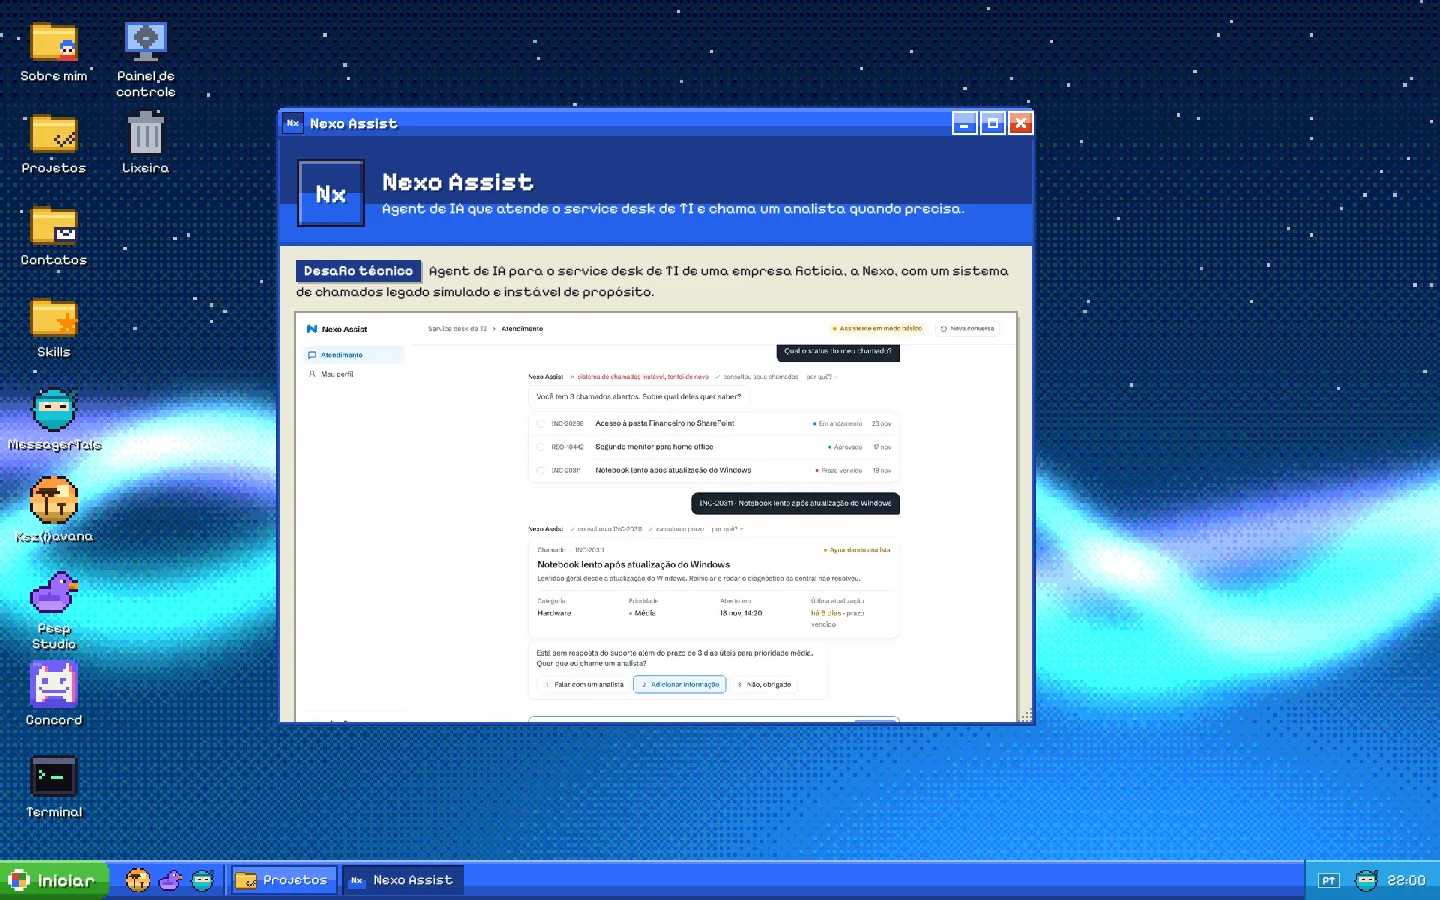
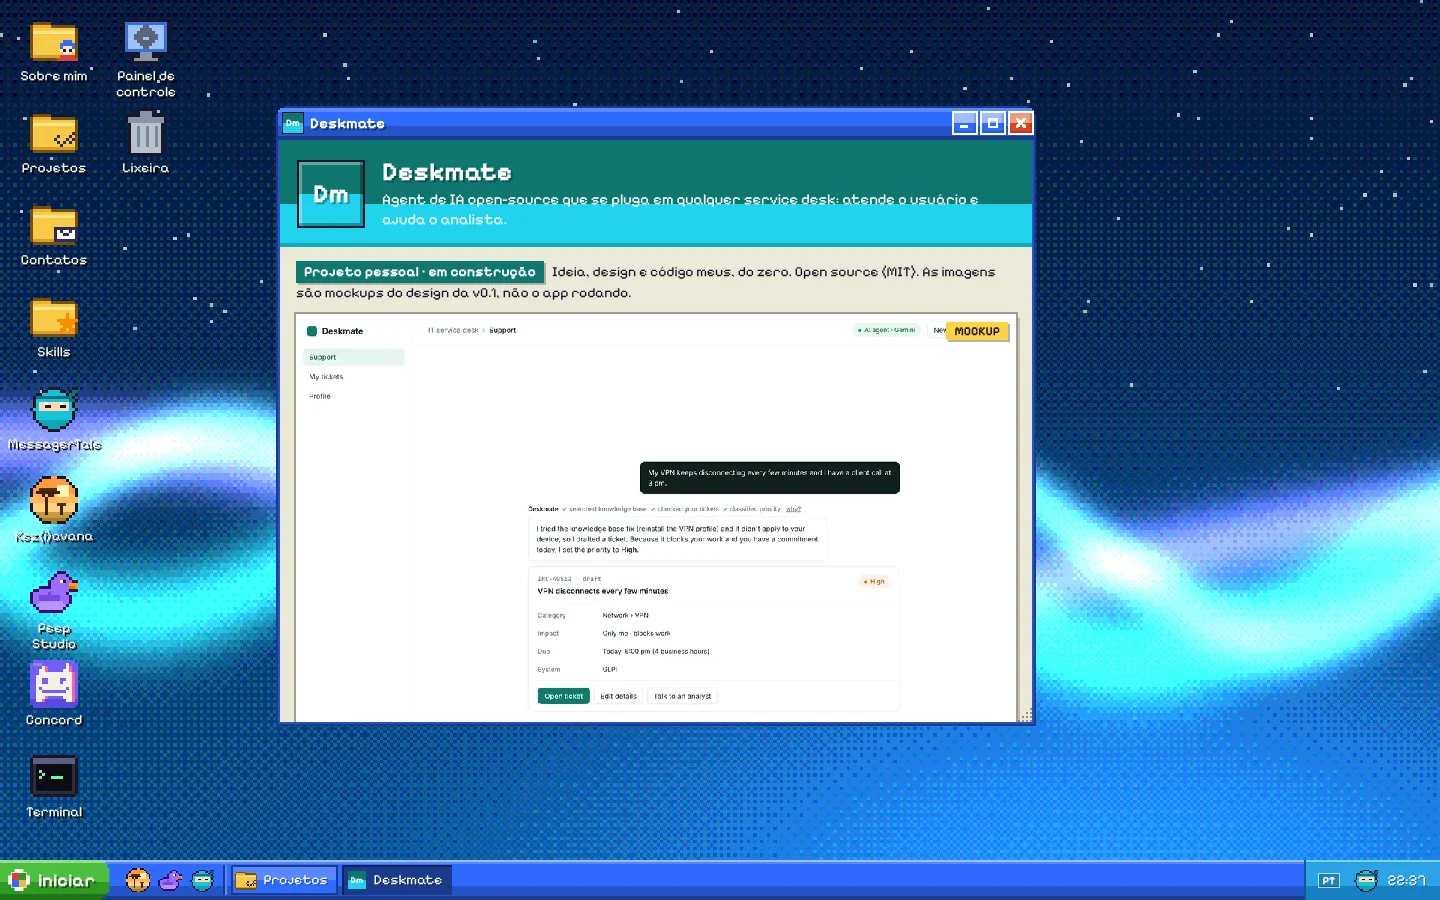
Remove o projeto antigo; Deskmate como ideia e criação próprias
Claude-Session: https://claude.ai/code/session_01LB9nuwvuu4kV9NoEkgtS1i

diff --git a/js/i18n.js b/js/i18n.js
@@ -59,15 +59,6 @@
       aprendizados: ["Writing a Go API without a framework, with hand-made rate limiting and CORS", "Deploying the static site on Cloudflare and the API in Docker, each on its own free tier", "Translating a whole site into three languages without duplicating pages"],
       legendas: ["Home with the interactive mirror and Miro", "Navy dark theme", "The five mirror shapes", "Careers, with 17 openings", "On a phone"],
     },
-    nexo: {
-      tipo: "First version of Deskmate", contexto: "My own project, built from scratch with my own time and resources, for a fictional company (Nexo) with a simulated legacy ticket system that is unstable on purpose. It became the foundation of Deskmate, which I'm rewriting as open source.",
-      resumo: "AI agent that handles the IT service desk and calls an analyst when needed.",
-      problema: "Many IT tickets are repeated questions (\"what's the status of my ticket?\", \"the VPN won't connect\"). Employees wait, and analysts spend time on what a lookup would solve. The idea was to automate that without letting the model make up deadlines or priorities, or touch someone else's ticket.",
-      descricao: "The employee describes the problem in a chat. The agent checks their tickets, searches the help center, drafts tickets for them to confirm and hands off to an analyst when needed. The analyst follows everything in a console, with the reason behind each agent decision. The project's principle: the LLM understands the conversation; the code decides the rules.",
-      destaques: ["Mastra agent with 7 tools; deadlines, priority and duplicates live in tested code", "Gemini as the main model, Groq as plan B and a basic mode without AI when both fail", "A \"why?\" link on every answer and an analyst console with the decision log", "Evals against the real AI: 44/44 on Gemini; unit, integration and Playwright tests"],
-      aprendizados: ["Letting the LLM interpret and the code decide: business rules don't depend on the model", "Measuring an agent with behavior evals (which tools it called), not text", "Idempotency and retry with backoff against a legacy system that goes down"],
-      legendas: ["Overdue ticket: the agent offers to call an analyst", "Handoff to Tier 2 support", "Analyst console with the decision log", "Sign in"],
-    },
     doce: {
       tipo: "Client", contexto: "Site built for Ana Beatriz, a baker, and deployed on Vercel.",
       resumo: "Bakery showcase where the order ends up ready on WhatsApp.",
@@ -78,9 +69,9 @@
       legendas: ["Home page", "Menu with category filter", "Building a cake order", "On a phone"],
     },
     deskmate: {
-      tipo: "Personal project · in progress", contexto: "Open source (MIT). The images are design mockups of v0.1, not the running app.",
+      tipo: "Personal project · in progress", contexto: "My idea, design and code, from scratch. Open source (MIT). The images are design mockups of v0.1, not the running app.",
       resumo: "Open-source AI agent that plugs into any service desk: it helps the end user and the analyst.",
-      problema: "Nexo Assist, the first version, served one specific service desk. Deskmate takes what worked there and turns it into an open-source product for any company: self-hosted, free to run and pluggable into the service desk it already uses (GLPI, Jira, Zammad or an in-house system).",
+      problema: "Many IT tickets are repeated questions (\"what's the status of my ticket?\", \"the VPN won't connect\"). Employees wait and analysts spend time on what a lookup would solve. Deskmate automates that for any company: self-hosted, free to run and pluggable into the service desk it already uses (GLPI, Jira, Zammad or an in-house system).",
       descricao: "A self-hostable, open-source (MIT) AI agent for IT service desks. The employee describes the problem in a chat; the agent sets the priority, looks for similar tickets and opens or follows up on the ticket. The analyst sees everything in a dashboard. The agent isn't tied to one system: it talks to an ITicketSystem interface, and each service desk gets an adapter. Work in progress, with the domain written first and covered by tests.",
       destaques: ["ASP.NET Core (.NET 10) back end rewritten from scratch, with domain rules tested in xUnit", "One adapter per service desk behind the ITicketSystem interface; GLPI comes first", "Swappable AI providers (Gemini, Groq and Ollama) behind IChatModel, plus a basic mode without AI", "Its own agent loop instead of a framework, so there is no hidden behavior"],
       aprendizados: ["Designing for contributors: CI, Conventional Commits and community files from day one", "Dependency inversion in practice: swap Gemini for Ollama or GLPI for Jira without touching the agent", "Planning a small v0.1 and saying no (YAGNI) to queues, Redis and microservices"],

diff --git a/js/data.js b/js/data.js
@@ -103,38 +103,6 @@ window.PROJETOS = [
     demo: "https://mirav.aluisioalves6.workers.dev/",
   },
   {
-    id: "nexo",
-    nome: "Nexo Assist",
-    curto: "Nexo Assist",
-    cor: ["#1E3A8A", "#2563EB"],
-    sigla: "Nx",
-    contexto: { tipo: "Primeira versão do Deskmate", texto: "Projeto meu, feito do zero com o meu tempo e os meus recursos, para uma empresa fictícia (a Nexo) com um sistema de chamados legado simulado e instável de propósito. Ele virou a base do Deskmate, que estou reescrevendo como open source." },
-    resumo: "Agent de IA que atende o service desk de TI e chama um analista quando precisa.",
-    problema: "Boa parte dos chamados de TI são perguntas repetidas (\"qual o status do meu chamado?\", \"a VPN não conecta\"). O funcionário espera, e o analista perde tempo com o que uma consulta resolveria. A ideia era automatizar isso sem deixar o modelo inventar prazo, prioridade ou mexer em chamado de outra pessoa.",
-    descricao:
-      "O funcionário descreve o problema num chat. O agent consulta os chamados dele, busca na central de ajuda, prepara rascunhos de chamado para ele confirmar e transfere para um analista quando precisa. O analista acompanha tudo num console, com o motivo de cada decisão do agent. Princípio do projeto: o LLM entende a conversa; o código decide as regras.",
-    destaques: [
-      "Agent no Mastra com 7 ferramentas; prazo, prioridade e duplicidade ficam em código testado",
-      "Gemini como principal, Groq como plano B e um modo básico sem IA quando os dois caem",
-      "Botão \"por quê?\" em cada resposta e console do analista com o registro de decisões",
-      "Evals contra a IA real: 44/44 no Gemini; testes unitários, de integração e Playwright",
-    ],
-    aprendizados: [
-      "Deixar o LLM interpretar e o código decidir: as regras de negócio não dependem do modelo",
-      "Medir um agent com evals de comportamento (ferramentas chamadas), não de texto",
-      "Idempotência e retry com backoff contra um sistema legado que cai",
-    ],
-    imagens: [
-      { src: "img/projetos/nexo-chat.webp", legenda: "Chamado com prazo vencido: o agent oferece chamar um analista" },
-      { src: "img/projetos/nexo-chat-handoff.webp", legenda: "Transferência para o Suporte N2" },
-      { src: "img/projetos/nexo-decisoes.webp", legenda: "Console do analista com o registro de decisões" },
-      { src: "img/projetos/nexo-login.webp", legenda: "Login" },
-    ],
-    stack: ["Next.js 16", "TypeScript", "Mastra", "Gemini", "Groq", "Hono", "SQLite (libSQL)", "zod", "Vitest", "Playwright"],
-    repo: "https://github.com/aluisiodev/nexo-assist",
-    demo: "",
-  },
-  {
     id: "doce",
     nome: "Doce & Afeto",
     curto: "Doce & Afeto",
@@ -172,9 +140,9 @@ window.PROJETOS = [
     curto: "Deskmate",
     cor: ["#0F766E", "#22D3EE"],
     sigla: "Dm",
-    contexto: { tipo: "Projeto pessoal · em construção", texto: "Open source (MIT). As imagens são mockups do design da v0.1, não o app rodando." },
+    contexto: { tipo: "Projeto pessoal · em construção", texto: "Ideia, design e código meus, do zero. Open source (MIT). As imagens são mockups do design da v0.1, não o app rodando." },
     resumo: "Agent de IA open-source que se pluga em qualquer service desk: atende o usuário e ajuda o analista.",
-    problema: "O Nexo Assist, a primeira versão, atendia um service desk específico. O Deskmate pega o que funcionou nele e vira um produto open source para qualquer empresa: auto-hospedado, sem custo para rodar e plugável no service desk que ela já usa (GLPI, Jira, Zammad ou um sistema próprio).",
+    problema: "Boa parte dos chamados de TI são perguntas repetidas (\"qual o status do meu chamado?\", \"a VPN não conecta\"). O funcionário espera e o analista perde tempo com o que uma consulta resolveria. O Deskmate automatiza isso para qualquer empresa: auto-hospedado, sem custo para rodar e plugável no service desk que ela já usa (GLPI, Jira, Zammad ou um sistema próprio).",
     descricao:
       "Um agent de IA auto-hospedável e de código aberto (MIT) para service desks de TI. O funcionário descreve o problema num chat; o agent classifica a prioridade, procura chamados parecidos e abre ou acompanha o chamado. O analista vê tudo num painel. O agent não depende de um sistema específico: conversa com uma interface ITicketSystem, e cada service desk ganha um adaptador. Em construção, com o domínio escrito primeiro e coberto por testes.",
     destaques: [

diff --git a/js/concord-dados.js b/js/concord-dados.js
@@ -128,12 +128,12 @@ Sobre as perguntas para o celular:
       "emails, LigadIn and yakurt now talk about the Savanna Museum."],
     ["2026-11-23T13:53:36Z", `* Geral: A Zizi está muito "burra" no jogo da velha, precisa estar mais inteligente.
 * Celular: Alguns jogos não funcionam, como é o caso do jogo da batalha de ritmo. O jogo da cobrinha também está dificil de usar […]
-* Tambem quero que já altere o "nexo-assist" para "Deskmate" que é como eu irei chamar este próximo projeto.
+* Tambem quero que já coloque o "Deskmate", que é como eu irei chamar este próximo projeto.
 * Também não é possível usar a localização no site "Clima"
 * Os toques também não estão funcionando no meu celular. […] Adicione também a música que você fez na dificuldade dificil da batalha de ritmo.`,
       "A smarter Zizi, phone fixes and the Deskmate project.",
-      "Zizi com minimax, jogos funcionando no celular, Deskmate no lugar do Nexo Assist e o Recife de Coral como toque.",
-      "Zizi with minimax, games working on the phone, Deskmate instead of Nexo Assist and Coral Reef as a ringtone."],
+      "Zizi com minimax, jogos funcionando no celular, o projeto Deskmate e o Recife de Coral como toque.",
+      "Zizi with minimax, games working on the phone, the Deskmate project and Coral Reef as a ringtone."],
     ["2026-11-26T03:16:02Z", `Eu na verdade gostaria de adicionar como este portfolio foi feito nos servidores/conversas do concord. Neste caso, como eu fiz para utilizar a IA neste projeto, você pode mostrar meus prompts, dizer qual modelo de IA eu usei e especificar que foi totalmente vibecodado, apenas com minhas ideias.
 Os bots usarão também das APIs do GROQ e Gemini né?
 Gostei do canal de voz fake`,

diff --git a/README.md b/README.md
@@ -5,7 +5,7 @@ e de jogos como *Emily is Away* e *Killer Frequency*.
 
 **[Abrir o aluOS](https://aluisiodev.github.io/)**
 
-![aluOS com a janela do projeto Nexo Assist aberta](docs/aluos.webp)
+![aluOS com a janela do projeto Deskmate aberta](docs/aluos.webp)
 
 ## O que tem no desktop
 
